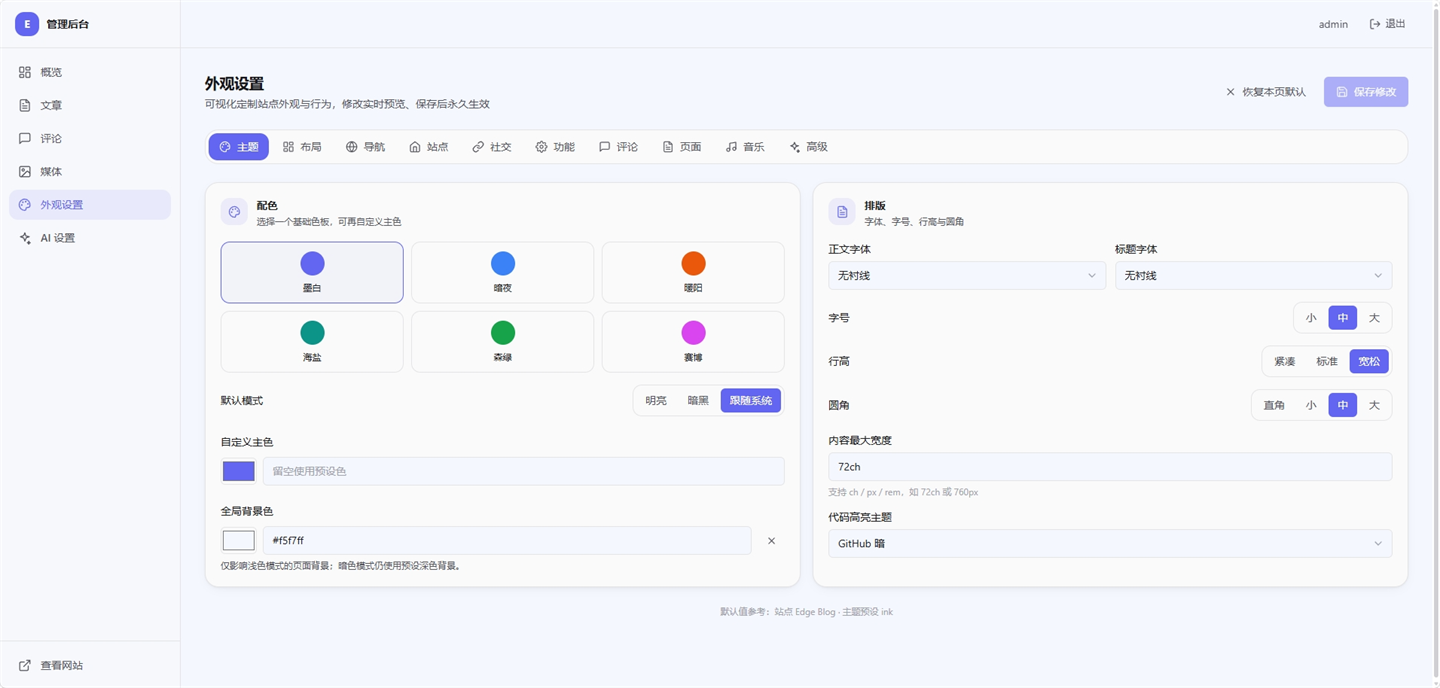
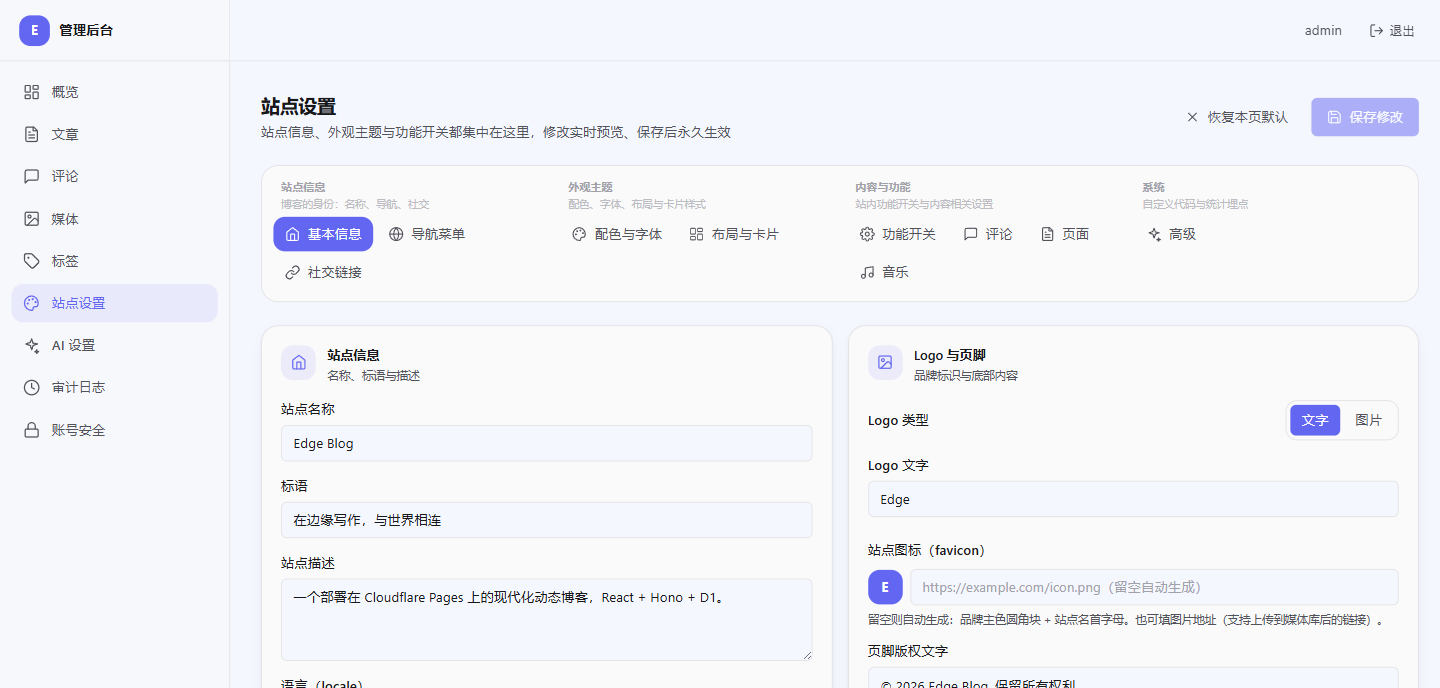
docs: 更新后台截图（概览/站点设置/AI 设置）以匹配当前界面

diff --git a/README.md b/README.md
@@ -24,11 +24,11 @@ JWT + HttpOnly Cookie      ·  PBKDF2-SHA256        ·  DOMPurify
 
 ### 后台
 
-| 概览 | 外观设置 | AI 设置 |
+| 概览 | 站点设置 | AI 设置 |
 | :---: | :---: | :---: |
-| [![后台概览](docs/screenshots/admin-dashboard.png)](docs/screenshots/admin-dashboard.png) | [![外观设置](docs/screenshots/admin-appearance.png)](docs/screenshots/admin-appearance.png) | [![AI 设置](docs/screenshots/admin-ai.png)](docs/screenshots/admin-ai.png) |
+| [![后台概览](docs/screenshots/admin-dashboard.png)](docs/screenshots/admin-dashboard.png) | [![站点设置](docs/screenshots/admin-appearance.png)](docs/screenshots/admin-appearance.png) | [![AI 设置](docs/screenshots/admin-ai.png)](docs/screenshots/admin-ai.png) |
 
-> 文章 / 评论 / 媒体管理、可视化外观定制与 AI 辅助写作（API Key 仅保存在服务端）。
+> 文章 / 评论 / 媒体 / 标签管理（含回收站与批量操作）、可视化站点定制、审计日志与 AI 辅助写作（API Key 仅保存在服务端）。
 
 ---
 
